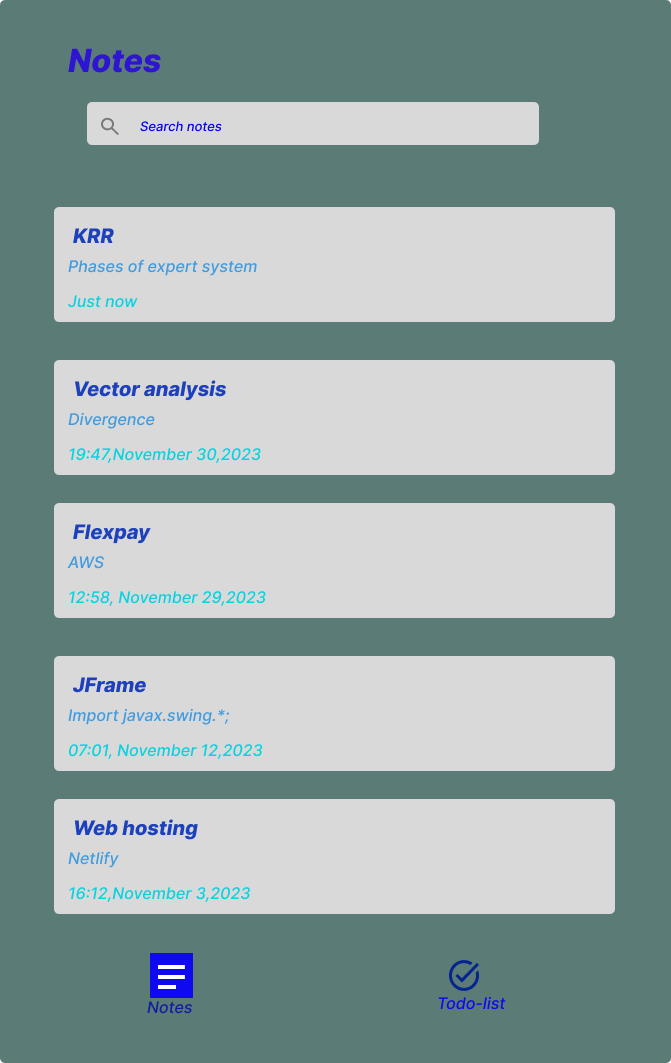
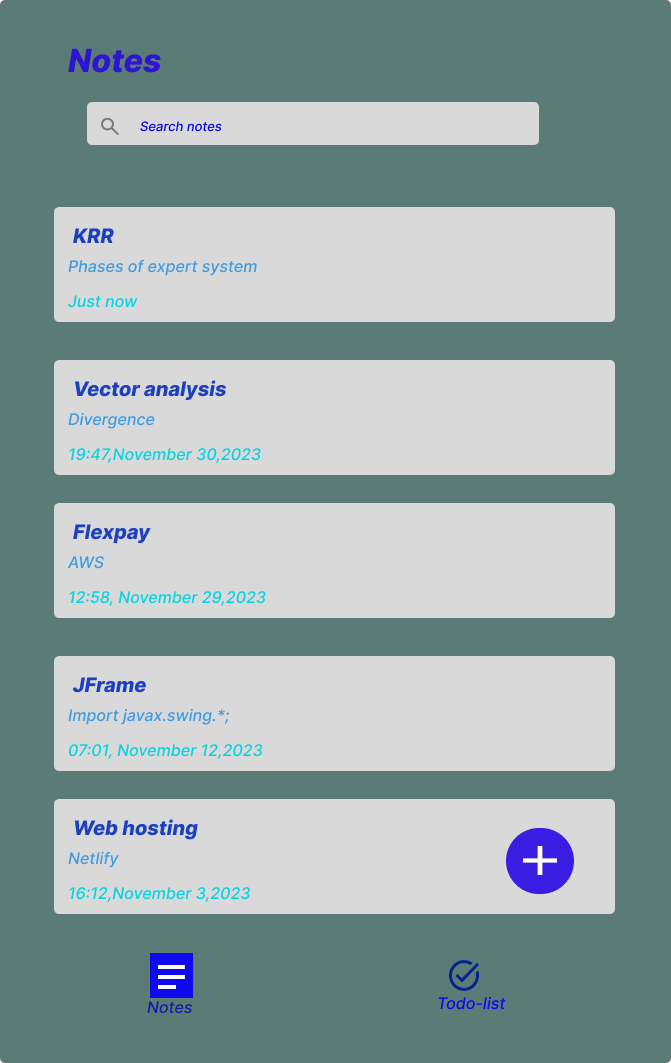
Completed the todo section draft

Changed region(s): [[0.7452, 0.7761, 0.8644, 0.8382]]

diff --git a/src/Notepad/NotesSec.jsx b/src/Notepad/NotesSec.jsx
@@ -1,44 +1,53 @@
-import React from 'react'
+import React from "react";
+import Navigation from "./Navigation";
 
 const NotesSec = () => {
   return (
     <>
-      <div className='noteSec'>
-        <h2>Krr</h2>
-        <p className='intro'>Phases of expert system</p>
-        <p className='time'>Justnow</p>
+      <h1>Notes</h1>
+      <input type="text" placeholder="Search notes" className="srcInput" />
+      <img src="assets/searchIcon.png" alt="searchIcon" className="srcIcon" />
+      <div className="notesCard">
+        <div className="noteSec">
+          <h2>Krr</h2>
+          <p className="intro">Phases of expert system</p>
+          <p className="time">Justnow</p>
+        </div>
+
+        <div className="noteSec">
+          <h2>Vector analysis</h2>
+          <p className="intro">Divergence</p>
+          <p className="time">19:47,November 30,2023</p>
+        </div>
+
+        <div className="noteSec">
+          <h2>Flexpay</h2>
+          <p className="intro">AWS</p>
+          <p className="time">12:58,November 29,2023</p>
+        </div>
+
+        <div className="noteSec">
+          <h2>JFrame</h2>
+          <p className="intro">Import javax.swing.*;</p>
+          <p className="time">07:01,November 12,2023</p>
+        </div>
+
+        <div className="noteSec">
+          <h2>Web hosting</h2>
+          <p className="intro">Netlify</p>
+          <p className="time">16:12,November 3,2023</p>
+        </div>
+
+        <div className="noteSec">
+          <h2>Web hosting</h2>
+          <p className="intro">Netlify</p>
+          <p className="time">16:12,November 3,2023</p>
+        </div>
       </div>
 
-      <div className='noteSec'>
-        <h2>Vector analysis</h2>
-        <p className='intro'>Divergence</p>
-        <p className='time'>19:47,November 30,2023</p>
-      </div>
-
-      <div className='noteSec'>
-        <h2>Flexpay</h2>
-        <p className='intro'>AWS</p>
-        <p className='time'>12:58,November 29,2023</p>
-      </div>
-
-      <div className='noteSec'>
-        <h2>JFrame</h2>
-        <p className='intro'>Import javax.swing.*;</p>
-        <p className='time'>07:01,November 12,2023</p>
-      </div>
-
-      <div className='noteSec'>
-        <h2>Web hosting</h2>
-        <p className='intro'>Netlify</p>
-        <p className='time'>16:12,November 3,2023</p>
-      </div>
-
-      <div className="icons">
-      <img src="assets/notesIcon.png" alt="notesIcon" />
-      <img src="assets/todoIcon.png" alt="todoIcon" />
-      </div>
+      <Navigation />
     </>
-  )
-}
+  );
+};
 
-export default NotesSec
+export default NotesSec;

diff --git a/src/Notepad/Todo.jsx b/src/Notepad/Todo.jsx
@@ -1,0 +1,73 @@
+import React from "react";
+import Navigation from "./Navigation";
+import "./Todo.css";
+
+const Todo = () => {
+  return (
+    <>
+      <h1>To-dos</h1>
+      <input type="text" placeholder="Search to-dos" className="srcInput" />
+      <img src="assets/searchIcon.png" alt="searchIcon" className="srcIcon" />
+     <div className="todos">
+     <div className="todoSec">
+        <label htmlFor="note1">
+          <input type="checkbox" id="note1" />
+          Visit grandmother in village
+        </label>
+        <p className="date">11:00,January 4,2024</p>
+      </div>
+
+      <div className="todoSec">
+        <label htmlFor="note2">
+          <input type="checkbox" id="note2" />
+          Go back home to prepare for school
+        </label>
+        <p className="date">11:00,January 4,2024</p>
+      </div>
+
+      <div className="todoSec">
+        <label htmlFor="note3">
+          <input type="checkbox" id="note3" />
+          Go back to school
+        </label>
+        <p className="date">11:00,January 4,2024</p>
+      </div>
+
+      <div className="todoSec">
+        <label htmlFor="note4">
+          <input type="checkbox" id="note4" />
+          Buy the items I need for the semister
+        </label>
+        <p className="date">11:00,January 4,2024</p>
+      </div>
+
+      <div className="todoSec">
+        <label htmlFor="note5">
+          <input type="checkbox" id="note5" />
+         Prepare for the classes
+        </label>
+        <p className="date">11:00,January 4,2024</p>
+      </div>
+
+      <div className="todoSec">
+        <label htmlFor="note6">
+          <input type="checkbox" id="note6" />
+          Attend my first class for the semister
+        </label>
+        <p className="date">11:00,January 4,2024</p>
+      </div>
+
+      <div className="todoSec">
+        <label htmlFor="note7">
+          <input type="checkbox" id="note7" />
+         Visit the deans office for go ahead on project 
+        </label>
+        <p className="date">11:00,January 4,2024</p>
+      </div>
+     </div>
+      <Navigation/>
+    </>
+  );
+};
+
+export default Todo;

diff --git a/src/Notepad/Notes.css b/src/Notepad/Notes.css
@@ -1,25 +1,25 @@
-@import url('https://fonts.googleapis.com/css2?family=Inter:wght@500;800&display=swap');
+@import url("https://fonts.googleapis.com/css2?family=Inter:wght@500;800&display=swap");
 
 h1 {
-    color: rgba(29, 64, 188, 1);
+  color: rgba(29, 64, 188, 1);
 }
 
 h2 {
-    padding-top: 1rem;
-    color: rgba(29, 64, 188, 1);
+  padding-top: 1rem;
+  color: rgba(29, 64, 188, 1);
 }
 
 .notesContainer {
   background-color: rgba(91, 123, 118, 100%);
   width: 500px;
   height: 950px;
-  padding: 1rem;
+  padding: 2rem;
   border-radius: 0.5rem;
-  font-family: 'Inter', sans-serif;
+  font-family: "Inter", sans-serif;
   font-style: italic;
   font-size: 15px;
-}
 
+}
 
 .srcInput {
   align-self: center;
@@ -36,24 +36,47 @@ h2 {
 }
 
 .noteSec {
-  
-    background-color:rgba(217, 217, 217, 1);
-    border-radius: 0.5rem;
-    padding-left:1rem;
-    
+  background-color: rgba(217, 217, 217, 1);
+  border-radius: 0.5rem;
+  padding-left: 1rem;
+  max-width: 85%;
 }
 
 .intro {
-    color: rgba(64, 156, 223, 1);
+  color: rgba(64, 156, 223, 1);
 }
 
-.time{
-    padding-bottom: 1rem;
-    color: rgba(8, 210, 223, 1);
+.time {
+  padding-bottom: 1rem;
+  color: rgba(8, 210, 223, 1);
+}
+
+.add {
+  position: absolute;
+  transform: translate3d(26rem, -4rem, 0px);
+  
+  
+ 
+}
+
+.addIcon {
+    height: 3rem;
 }
 
 .icons {
-    display: flex;
-    justify-content: space-between;
-    padding: 0 4rem;
+  display: flex;
+  justify-content: space-between;
+  padding: 0 4rem;
+  margin-top: 1rem;
+}
+
+.notesCard {
+  width: 561px;
+  height: 707px;
+  overflow: scroll;
+}
+
+.icon:hover {
+    cursor:pointer;
+    height: 4rem;
 }

diff --git a/src/Notepad/Todo.css b/src/Notepad/Todo.css
@@ -1,0 +1,33 @@
+.todoSec {
+  display: flex;
+  flex-direction: column;
+  background-color: rgba(217, 217, 217, 1);
+  padding: 1rem;
+  border-radius: 0.5rem;
+  padding-top: 1.5rem;
+  max-width: 85%;
+}
+
+.todos {
+  display: flex;
+  flex-direction: column;
+  gap: 1rem;
+  width: 561px;
+  height: 707px;
+  overflow: scroll;
+}
+
+input[type="checkbox"] {
+  margin-right: 10px;
+  align-self: center;
+  place-self: center;
+}
+
+label {
+  display: flex;
+  font-size: 20px;
+}
+
+.date {
+  align-self: self-end;
+}

diff --git a/src/Notepad/Navigation.jsx b/src/Notepad/Navigation.jsx
@@ -1,0 +1,18 @@
+import React from 'react'
+
+const Navigation = () => {
+  return (
+    <>
+        <div className="add" >
+        <img src="assets/addIcon.png" alt="addIcon"  className="addIcon icon"/>
+      </div>
+
+      <div className="icons">
+        <img src="assets/notesIcon.png" alt="notesIcon" className="icon"/>
+        <img src="assets/todoIcon.png" alt="todoIcon" className="icon"/>
+      </div>
+    </>
+  )
+}
+
+export default Navigation

diff --git a/src/Notepad/Mainpad.jsx b/src/Notepad/Mainpad.jsx
@@ -1,14 +1,14 @@
 import React from 'react'
-import Header from './Header'
 import './Notes.css'
 import NotesSec from './NotesSec'
+import Todo from './Todo'
 
 
 const Mainpad = () => {
   return (
     <div className='notesContainer'>
-      <Header/>
-      <NotesSec/>
+      {/* <NotesSec/> */}
+      <Todo/>
     </div>
   )
 }
